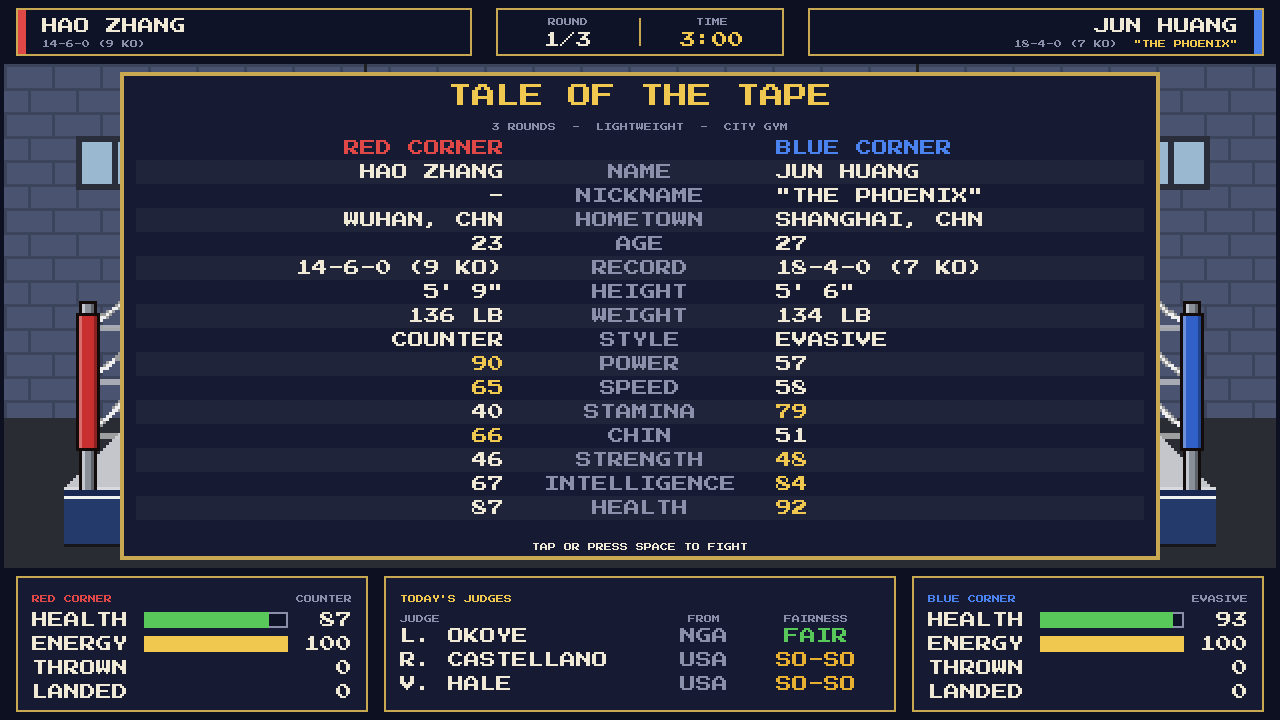
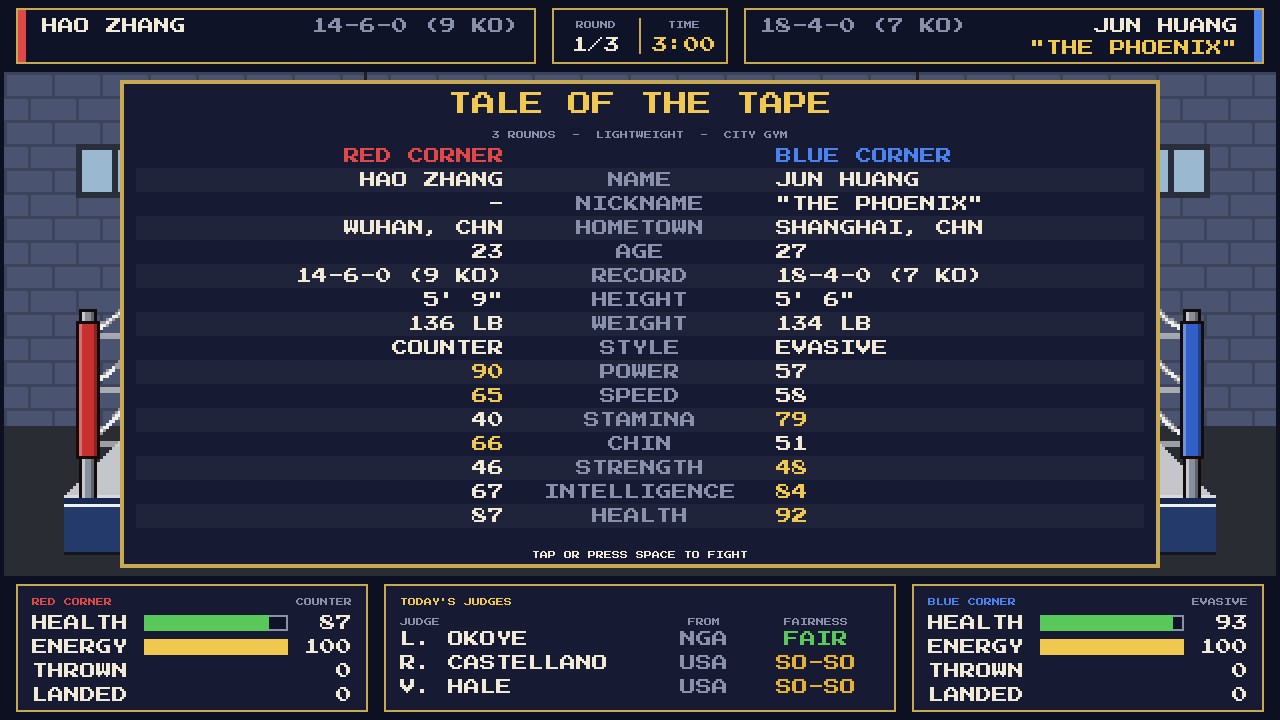
0.1.2: bigger name plates, winner billed with nickname
- Name plates 520 x 56: name and record on the top line, nickname under
  the name, all 16 px; long names shortened to an initial and surname.
- Score bug narrowed to 176 x 56 and the panels under the ring trimmed to
  128 px to make room; spacing re-measured so text sits evenly.
- The winner is announced as FIRST "NICKNAME" LAST.
- Version 0.1.2 and changelog entry.

Claude-Session: https://claude.ai/code/session_01PF6KKrB4uHprcLjw7ppdzy

diff --git a/CHANGELOG.md b/CHANGELOG.md
@@ -4,6 +4,15 @@ Every build bumps the last number of the version while the game is a
 prototype. The version lives in `project.godot` (`application/config/version`)
 and is shown on the main menu.
 
+## 0.1.2
+
+* Fight screen name plates are bigger (520 x 56): the record and nickname
+  are now 16 px like the name. The name and record share the top line and
+  the nickname sits under the name. To make room, the score bug is narrower
+  and the panels under the ring are 8 px shorter.
+* The winner is announced with his nickname between his first name and
+  surname, e.g. JAKE "MAMMOTH" HARRIS!
+
 ## 0.1.1
 
 * Version numbering: every build from now on bumps the last number.
